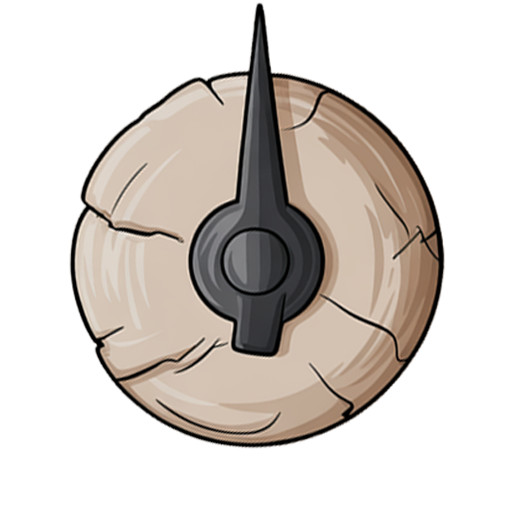
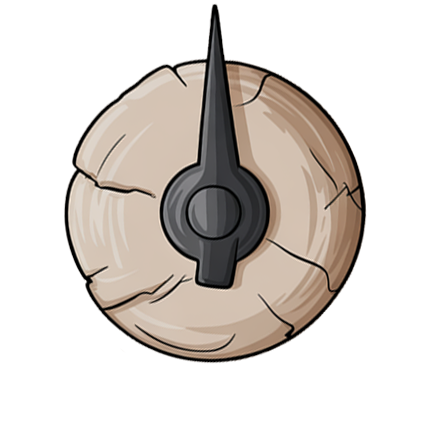
arreglada imagen que me daba toc

diff --git a/safebox_puzzle-main/src/components/MainScreen.jsx b/safebox_puzzle-main/src/components/MainScreen.jsx
@@ -21,7 +21,7 @@ const MainScreen = (props) => {
   const PASSWORD_API = 12345; //Contraseña de la sala del escape room 
   // //Tiene que ser de 5 digitos o cambiarlo en el archivo config
 
-  const STYLE = 2; // Estilo del dial, puede ser "classic" - 0,  "old" - 1, "modern" - 2
+  const STYLE = 1; // Estilo del dial, puede ser "classic" - 0,  "old" - 1, "modern" - 2
   
   const styles = {
     0: {
@@ -39,7 +39,7 @@ const MainScreen = (props) => {
       dial_size: 0.5,
       dial_sound: "sounds/spin_old2.wav",
       dial_text_color:  "#FFFFFF",
-      dial_text_size: "11vmin",
+      dial_text_size: "10vmin",
       dial_text_zIndex: 1,
     },
     2: {
